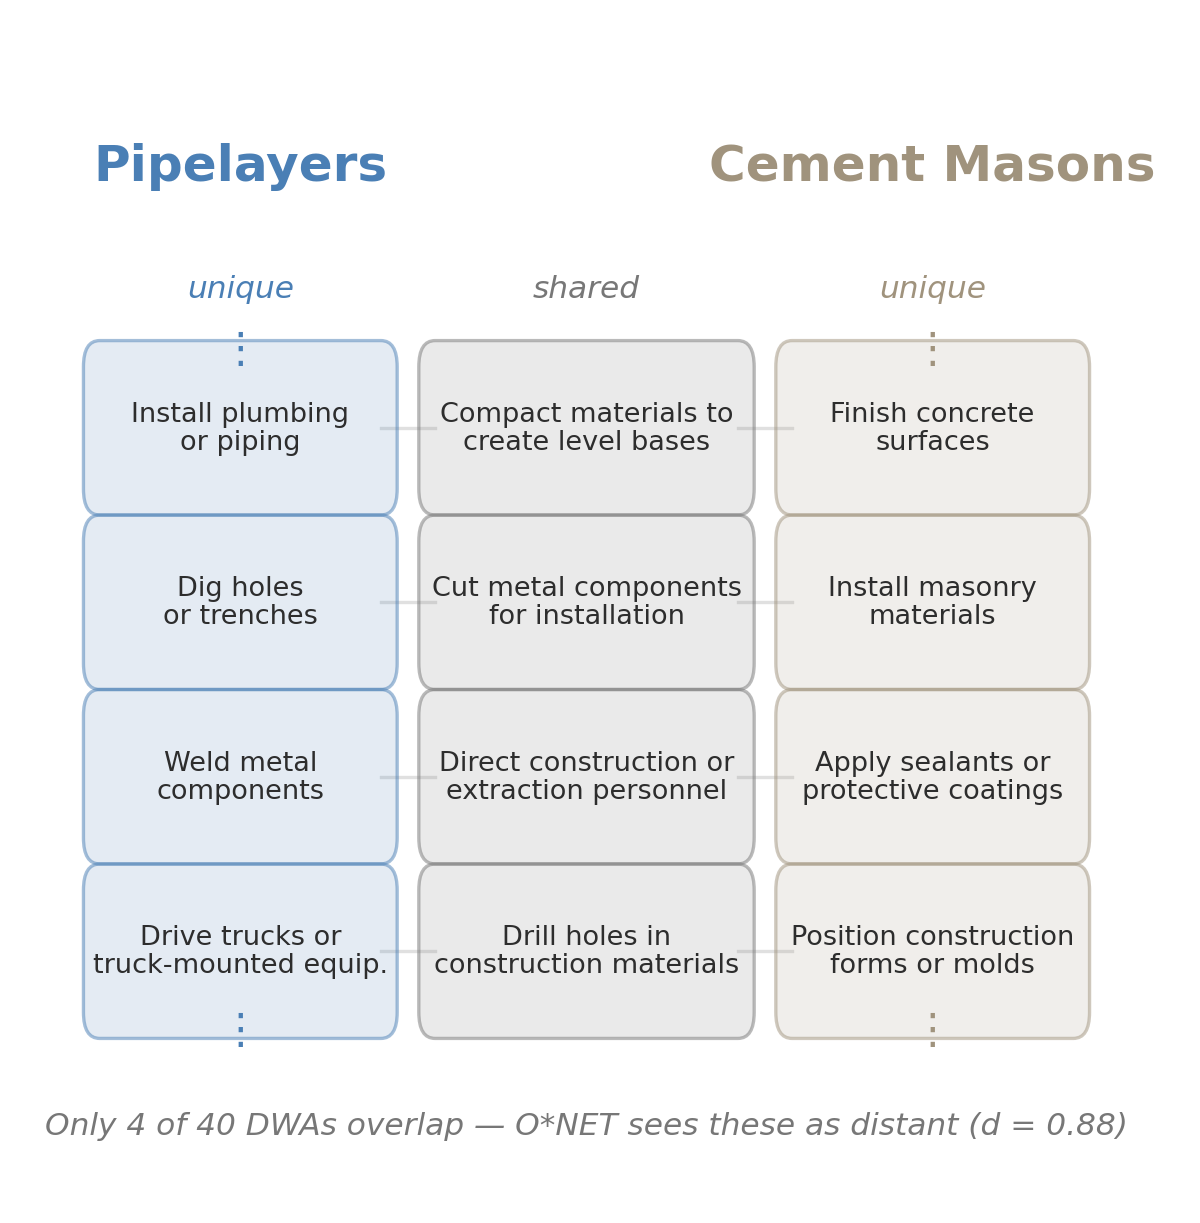
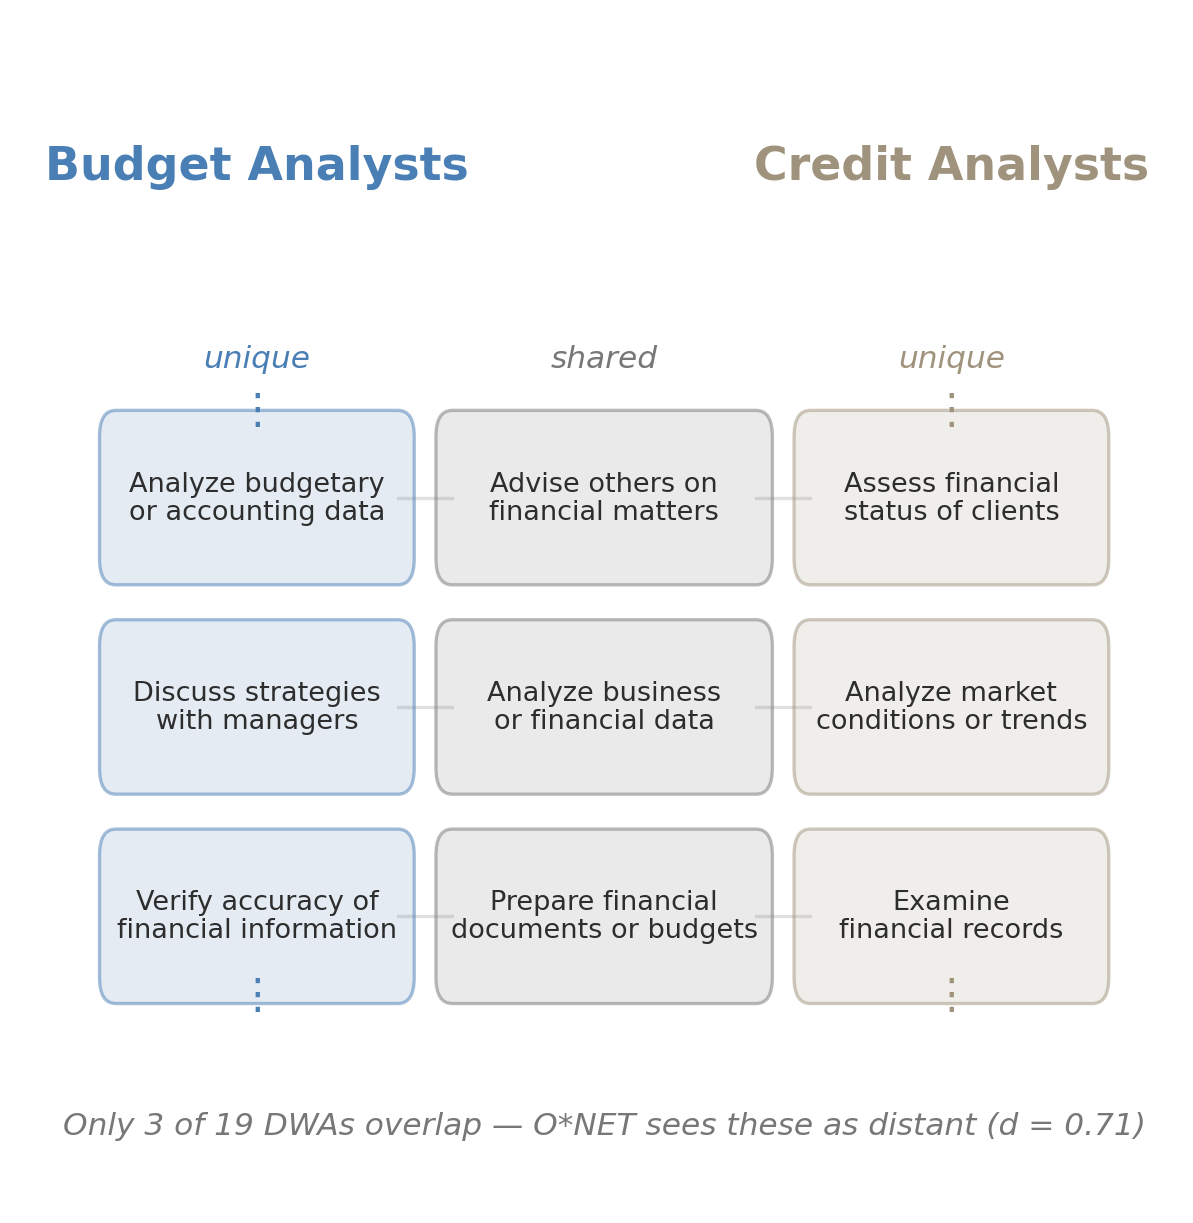
v0.7.9.3: Captions for fig3/fig4, swap fig5/fig6 to Budget vs Credit Analysts

diff --git a/figures/fig5_shared_dwas.py b/figures/fig5_shared_dwas.py
@@ -1,7 +1,7 @@
 """
-Figure 5 — DWA overlap diagram: Pipelayers vs Cement Masons
+Figure 5 — DWA overlap diagram: Budget Analysts vs Credit Analysts
 Target: Slide 4 (left panel)
-Shows shared and unshared DWAs between two construction occupations.
+Shows shared and unshared DWAs between two finance occupations.
 """
 import sys, os
 sys.path.insert(0, os.path.join(os.path.dirname(__file__), '..'))
@@ -13,26 +13,23 @@ from figures.style import setup, PRIMARY, SECONDARY, DARK, MID, GRID
 
 font = setup()
 
-# === Data (hardcoded from O*NET Tasks-to-DWAs mapping) ===
+# === Data: Budget Analysts vs Credit Analysts ===
 shared_dwas = [
-    "Compact materials to\ncreate level bases",
-    "Cut metal components\nfor installation",
-    "Direct construction or\nextraction personnel",
-    "Drill holes in\nconstruction materials",
+    "Advise others on\nfinancial matters",
+    "Analyze business\nor financial data",
+    "Prepare financial\ndocuments or budgets",
 ]
 
-pipe_dwas = [
-    "Install plumbing\nor piping",
-    "Dig holes\nor trenches",
-    "Weld metal\ncomponents",
-    "Drive trucks or\ntruck-mounted equip.",
+left_dwas = [
+    "Analyze budgetary\nor accounting data",
+    "Discuss strategies\nwith managers",
+    "Verify accuracy of\nfinancial information",
 ]
 
-cement_dwas = [
-    "Finish concrete\nsurfaces",
-    "Install masonry\nmaterials",
-    "Apply sealants or\nprotective coatings",
-    "Position construction\nforms or molds",
+right_dwas = [
+    "Assess financial\nstatus of clients",
+    "Analyze market\nconditions or trends",
+    "Examine\nfinancial records",
 ]
 
 # === Layout ===
@@ -59,47 +56,47 @@ def draw_node(ax, x, y, text, color, width=2.6, height=0.7):
             color=DARK, zorder=3, linespacing=1.1)
 
 # Occupation labels
-ax.text(1.8, 9.3, 'Pipelayers', ha='center', va='center',
-        fontsize=12, fontweight='bold', color=PRIMARY)
-ax.text(8.2, 9.3, 'Cement Masons', ha='center', va='center',
-        fontsize=12, fontweight='bold', color=SECONDARY)
+ax.text(1.8, 9.3, 'Budget Analysts', ha='center', va='center',
+        fontsize=11, fontweight='bold', color=PRIMARY)
+ax.text(8.2, 9.3, 'Credit Analysts', ha='center', va='center',
+        fontsize=11, fontweight='bold', color=SECONDARY)
 
-# Pipelayer-only DWAs (left column)
-pipe_ys = [7.8, 6.8, 5.8, 4.8]
-for dwa, y in zip(pipe_dwas, pipe_ys):
+# Node y-positions (3 rows)
+ys = [7.4, 6.2, 5.0]
+
+# Left-only DWAs (Budget Analysts)
+for dwa, y in zip(left_dwas, ys):
     draw_node(ax, 1.8, y, dwa, PRIMARY)
 
-# Cement Mason-only DWAs (right column)
-cement_ys = [7.8, 6.8, 5.8, 4.8]
-for dwa, y in zip(cement_dwas, cement_ys):
+# Right-only DWAs (Credit Analysts)
+for dwa, y in zip(right_dwas, ys):
     draw_node(ax, 8.2, y, dwa, SECONDARY)
 
 # Shared DWAs (center column)
-shared_ys = [7.8, 6.8, 5.8, 4.8]
-for dwa, y in zip(shared_dwas, shared_ys):
+for dwa, y in zip(shared_dwas, ys):
     draw_node(ax, 5.0, y, dwa, MID, width=2.8)
-    # Lines to Pipelayers
+    # Lines to Budget Analysts
     ax.plot([3.1, 3.6], [y, y], color=GRID, lw=0.8, zorder=0)
-    # Lines to Cement Masons
+    # Lines to Credit Analysts
     ax.plot([6.4, 6.9], [y, y], color=GRID, lw=0.8, zorder=0)
 
 # Column headers
-ax.text(1.8, 8.6, 'unique', ha='center', va='center',
+ax.text(1.8, 8.2, 'unique', ha='center', va='center',
         fontsize=7.5, color=PRIMARY, fontstyle='italic')
-ax.text(5.0, 8.6, 'shared', ha='center', va='center',
+ax.text(5.0, 8.2, 'shared', ha='center', va='center',
         fontsize=7.5, color=MID, fontstyle='italic')
-ax.text(8.2, 8.6, 'unique', ha='center', va='center',
+ax.text(8.2, 8.2, 'unique', ha='center', va='center',
         fontsize=7.5, color=SECONDARY, fontstyle='italic')
 
 # Vertical ellipses indicating more DWAs exist
-ax.text(1.8, 8.25, '⋮', ha='center', va='center', fontsize=10, color=PRIMARY)
-ax.text(1.8, 4.35, '⋮', ha='center', va='center', fontsize=10, color=PRIMARY)
-ax.text(8.2, 8.25, '⋮', ha='center', va='center', fontsize=10, color=SECONDARY)
-ax.text(8.2, 4.35, '⋮', ha='center', va='center', fontsize=10, color=SECONDARY)
+ax.text(1.8, 7.9, '⋮', ha='center', va='center', fontsize=10, color=PRIMARY)
+ax.text(1.8, 4.55, '⋮', ha='center', va='center', fontsize=10, color=PRIMARY)
+ax.text(8.2, 7.9, '⋮', ha='center', va='center', fontsize=10, color=SECONDARY)
+ax.text(8.2, 4.55, '⋮', ha='center', va='center', fontsize=10, color=SECONDARY)
 
 # Subtitle
 ax.text(5.0, 3.8,
-        'Only 4 of 40 DWAs overlap — O*NET sees these as distant (d = 0.88)',
+        'Only 3 of 19 DWAs overlap — O*NET sees these as distant (d = 0.71)',
         ha='center', va='center', fontsize=7.5, color=MID, fontstyle='italic')
 
 plt.tight_layout()

diff --git a/figures/fig6_embedding_similarity.py b/figures/fig6_embedding_similarity.py
@@ -1,13 +1,14 @@
 """
 Figure 6 — Embedding vs O*NET distance histograms
 Target: Slide 4 (right panel)
-Shows why embeddings disagree with O*NET for Pipelayers vs Cement Masons.
+Shows why embeddings disagree with O*NET for Budget Analysts vs Credit Analysts.
 """
 import sys, os
 sys.path.insert(0, os.path.join(os.path.dirname(__file__), '..'))
 
 import numpy as np
 import matplotlib.pyplot as plt
+from matplotlib.ticker import FuncFormatter
 
 from figures.style import setup, PRIMARY, SECONDARY, DARK, MID, GRID
 
@@ -18,13 +19,13 @@ D_embed = np.load('.cache/artifacts/v1/mobility/d_cosine_embed_census.npz')['dis
 D_onet = np.load('.cache/artifacts/v1/mobility/d_cosine_onet_census.npz')['distances']
 codes = list(np.load('.cache/artifacts/v1/mobility/d_cosine_embed_census.npz')['census_codes'].astype(int))
 
-pipe_idx = codes.index(6440)
-cem_idx = codes.index(6250)
+budget_idx = codes.index(820)   # Budget Analysts
+credit_idx = codes.index(830)   # Credit Analysts
 
-d_embed_pair = D_embed[pipe_idx, cem_idx]
-d_onet_pair = D_onet[pipe_idx, cem_idx]
+d_embed_pair = D_embed[budget_idx, credit_idx]
+d_onet_pair = D_onet[budget_idx, credit_idx]
 
-print(f"Pipelayer-Cement Mason: embed={d_embed_pair:.4f}, onet={d_onet_pair:.4f}")
+print(f"Budget-Credit Analysts: embed={d_embed_pair:.4f}, onet={d_onet_pair:.4f}")
 
 # Upper triangle values
 n = D_embed.shape[0]
@@ -45,7 +46,7 @@ ax1.set_yscale('log')
 ax1.set_ylim(bottom=0.8)
 ax1.axvline(d_onet_pair, color=DARK, linestyle='--', linewidth=1.2, zorder=3)
 fig.canvas.draw()
-ax1.annotate(f'Pipe\u2013Cement: {d_onet_pair:.2f}',
+ax1.annotate(f'Budget\u2013Credit: {d_onet_pair:.2f}',
              xy=(d_onet_pair, 100),
              xytext=(-50, 35), textcoords='offset points',
              fontsize=8, color=DARK, fontweight='bold',
@@ -54,7 +55,6 @@ ax1.set_title("O*NET Cosine Distance", fontsize=10, color=DARK, pad=6)
 ax1.set_ylabel('Pairs', fontsize=8, color=MID)
 ax1.set_xlim(0, 1.05)
 ax1.set_yticks([1, 10, 100, 1000, 10000, 100000])
-from matplotlib.ticker import FuncFormatter
 ax1.yaxis.set_major_formatter(FuncFormatter(lambda x, _: f'{int(x):,}' if x >= 1 else ''))
 ax1.tick_params(axis='both', labelsize=8)
 
@@ -63,7 +63,7 @@ ax2.hist(embed_vals, bins=60, color=PRIMARY, alpha=0.7, edgecolor='none')
 ax2.axvline(d_embed_pair, color=DARK, linestyle='--', linewidth=1.2, zorder=3)
 # Need to draw first to get ylim
 fig.canvas.draw()
-ax2.annotate(f'Pipe\u2013Cement: {d_embed_pair:.2f}',
+ax2.annotate(f'Budget\u2013Credit: {d_embed_pair:.2f}',
              xy=(d_embed_pair, ax2.get_ylim()[1] * 0.5),
              xytext=(40, 20), textcoords='offset points',
              fontsize=8, color=DARK, fontweight='bold',

diff --git a/figures/fig4_scope.py b/figures/fig4_scope.py
@@ -33,6 +33,9 @@ ax.tick_params(axis='y', labelsize=9)
 ax.tick_params(axis='x', length=0)
 
 plt.tight_layout()
+fig.text(0.5, -0.02,
+         'Geometry ranks destinations correctly (MPR = 0.74) but does not predict aggregate flows',
+         ha='center', fontsize=8, color=MID, fontstyle='italic')
 plt.savefig('figures/fig4_scope.png', dpi=300, bbox_inches='tight',
             facecolor='white', edgecolor='none')
 plt.close()

diff --git a/figures/fig3_task_scatter.py b/figures/fig3_task_scatter.py
@@ -303,6 +303,9 @@ ax.spines['bottom'].set_color(GRID)
 ax.spines['left'].set_color(GRID)
 
 plt.tight_layout()
+fig.text(0.5, -0.03,
+         '30 selected DWAs from 2,087 — projected onto interpretable semantic axes',
+         ha='center', fontsize=8, color=MID, fontstyle='italic')
 plt.savefig('figures/fig3_task_scatter.png', dpi=300, bbox_inches='tight',
             facecolor='white', edgecolor='none')
 plt.close()

diff --git a/figures/README.md b/figures/README.md
@@ -5,7 +5,7 @@
 | fig1_ai_exposure.png | 2 — Motivation | 9.0″ × 6.5″ | Done |
 | fig2_pseudo_r2.png | 6 — Main Result | 9.0″ × 5.0″ | Done |
 | fig3_task_scatter.png | 3 — Tasks in Semantic Space | 6.0″ × 4.2″ | Done |
-| fig4_scope.png | 7 — What the Measure Captures | 4.0″ × 3.8″ | NEW |
+| fig4_scope.png | 7 — What the Measure Captures | 4.0″ × 3.8″ | Done |
 | fig5_shared_dwas.png | 4 — Example (left panel) | 4.3″ × 4.2″ | Done |
 | fig6_embedding_similarity.png | 4 — Example (right panel) | 4.5″ × 4.2″ | Done |
 | fig7_sankey_pipeline.png | B1 — Data Pipeline (backup) | 9.0″ × 4.2″ | Done |
@@ -28,15 +28,15 @@
 - **Data:** Hardcoded from `outputs/experiments/demand_probe_decomposition_v0703b.json`
 - **Takeaway:** Aggregate inflows are demand-dominated (ρ = 0.80); geometry captures per-origin pathway direction (ρ = 0.13)
 
-## fig5 — Shared DWAs (Pipelayers vs Cement Masons)
+## fig5 — Shared DWAs (Budget Analysts vs Credit Analysts)
 - **Data:** Hardcoded from O*NET Tasks-to-DWAs mapping
-- **Pair:** Pipelayers (47-2151.00) vs Cement Masons (47-2051.00)
-- **Takeaway:** Only 4 of 40 DWAs overlap — O*NET cosine distance = 0.88
+- **Pair:** Budget Analysts (13-2031.00) vs Credit Analysts (13-2041.00)
+- **Takeaway:** Only 3 of 19 DWAs overlap — O*NET cosine distance = 0.71
 
 ## fig6 — Embedding Similarity
 - **Data:** Census-level distance matrices from `.cache/artifacts/v1/mobility/`
-- **Pair:** Same as fig5 — Pipelayers (Census 6440) vs Cement Masons (Census 6250)
-- **Takeaway:** Embedding distance = 0.15 (7th percentile) vs O*NET = 0.88 — embeddings detect similarity that O*NET misses
+- **Pair:** Same as fig5 — Budget Analysts (Census 820) vs Credit Analysts (Census 830)
+- **Takeaway:** Embedding distance = 0.07 (1.3rd percentile) vs O*NET = 0.71 — embeddings detect similarity that O*NET misses
 
 ## fig7 — CPS Data Pipeline (Sankey)
 - **Data:** Hardcoded from paper Table 1

diff --git a/LEDGER.md b/LEDGER.md
@@ -1,6 +1,6 @@
 # LEDGER.md — Task-Space Oracle Research State
 
-**Current Version:** 0.7.9.2
+**Current Version:** 0.7.9.3
 **Last Updated:** 2026-03-09
 **Paper Draft:** `paper/main.tex`
 
@@ -763,6 +763,7 @@ Deprecated approaches. Do not retry.
 
 | Version | Date | Changes |
 |---------|------|---------|
+| 0.7.9.3 | 2026-03-09 | Captions for fig3/fig4, swap fig5/fig6 to Budget vs Credit Analysts. |
 | 0.7.9.2 | 2026-03-09 | Fig4 vertical bars, fig6 remove exponents and update subtitle. |
 | 0.7.9.1 | 2026-03-09 | Create fig4 (scope), fix fig5 centering/ellipses, fix fig6 log scale/sizing. |
 | 0.7.9.0 | 2026-03-09 | New figures — fig5 (shared DWAs), fig6 (embedding similarity), fig7 (Sankey pipeline), fig3 resized to 6.0×4.2. |
